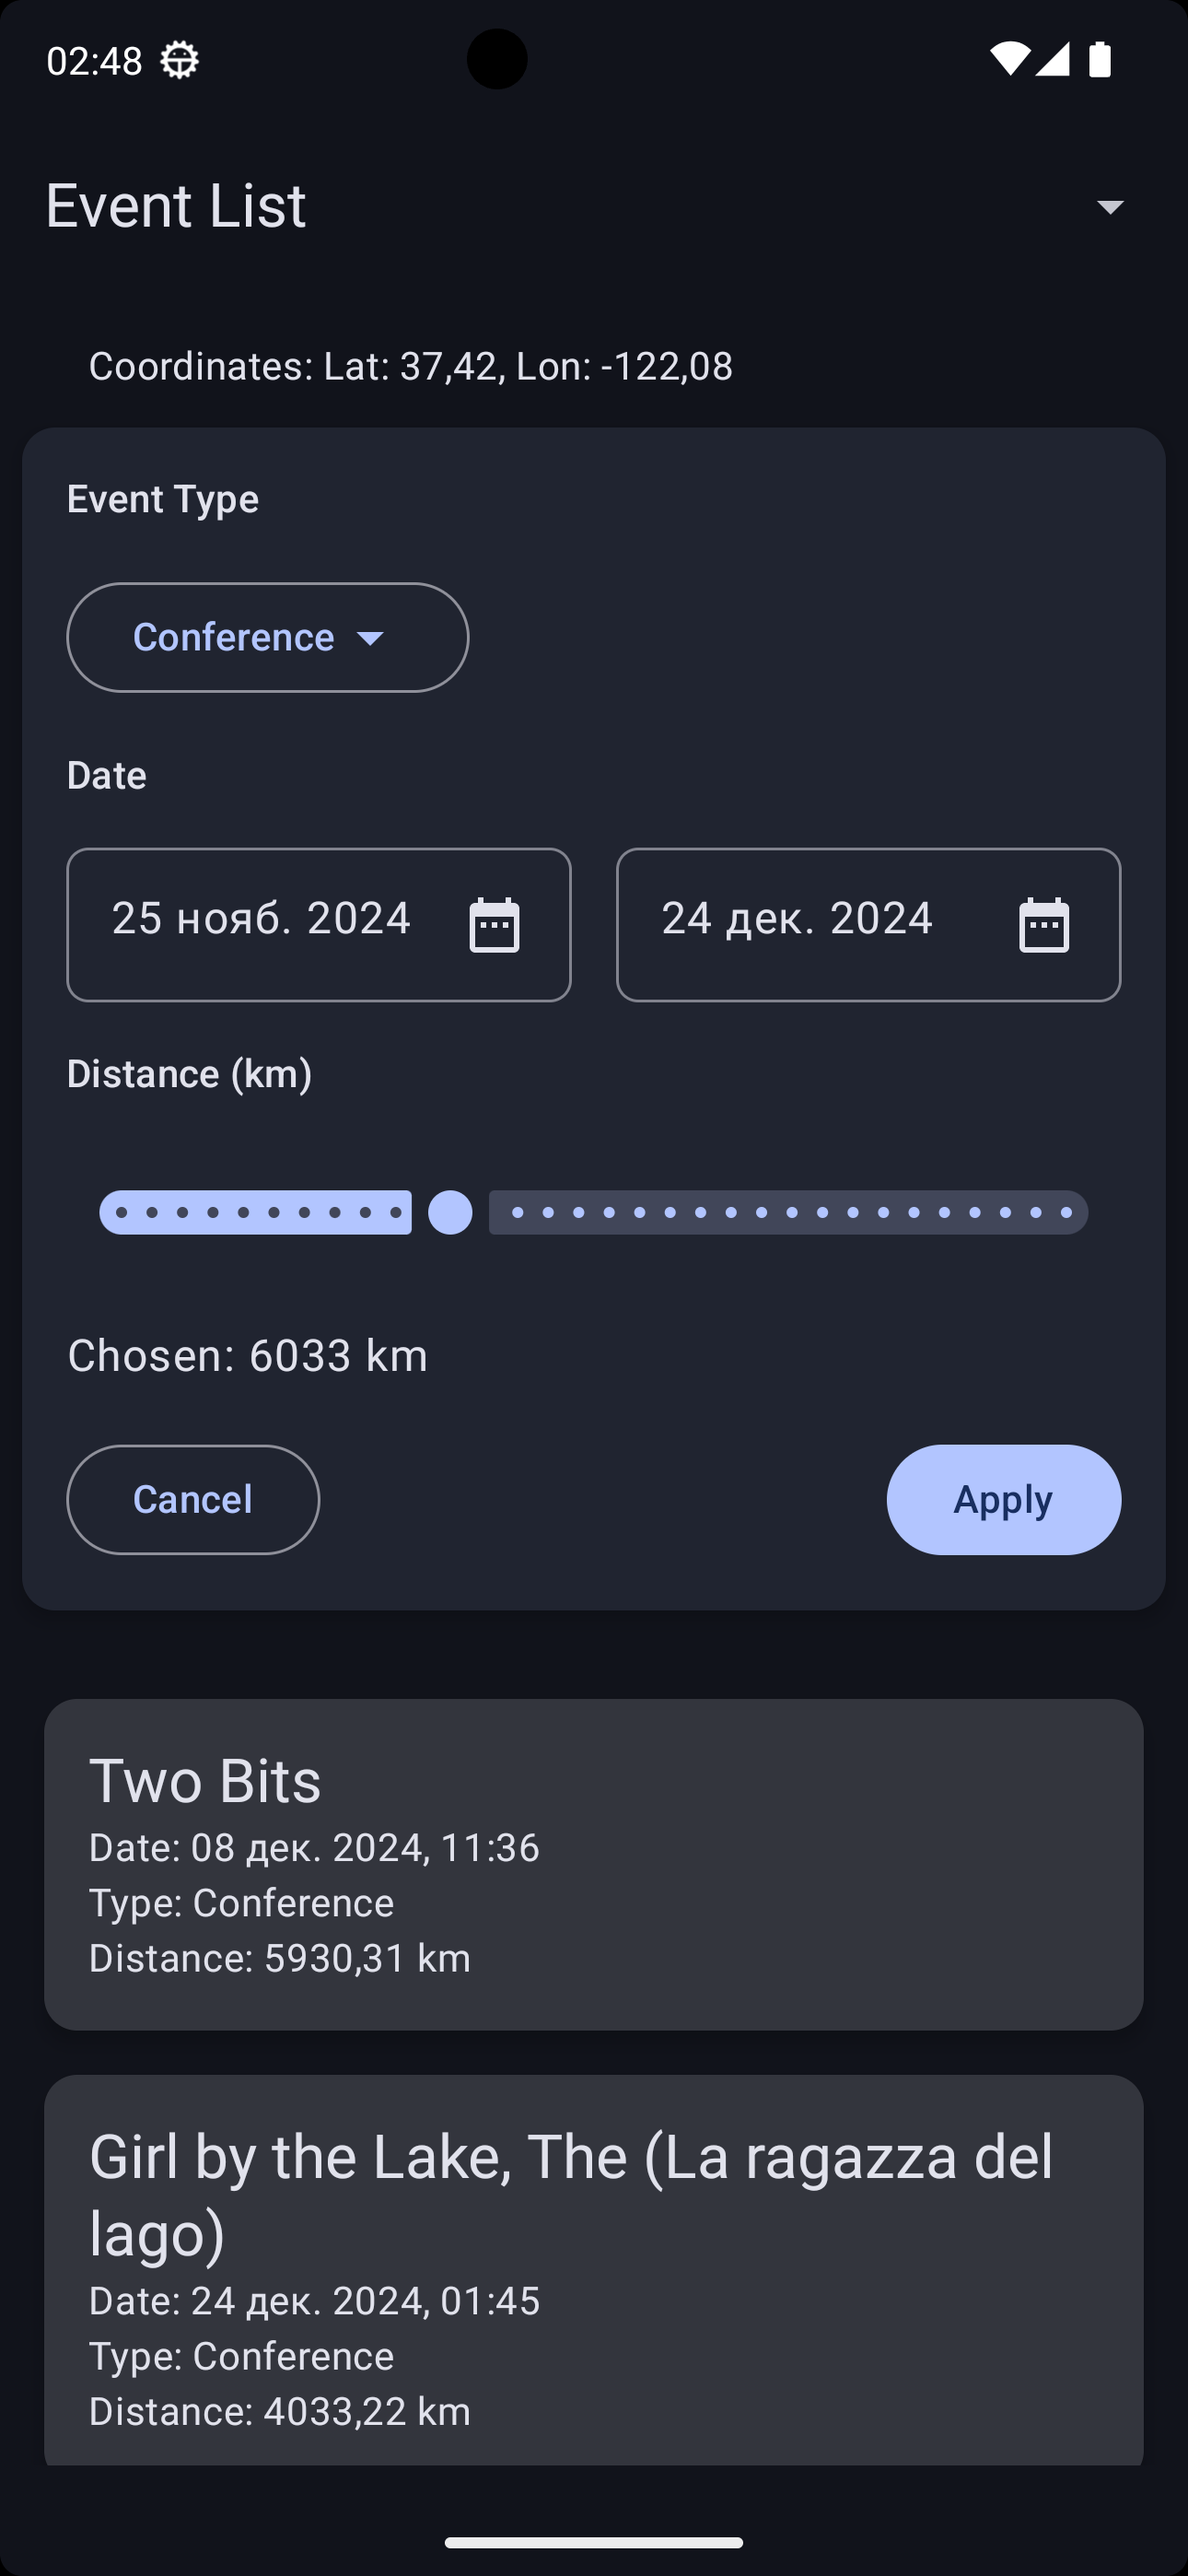
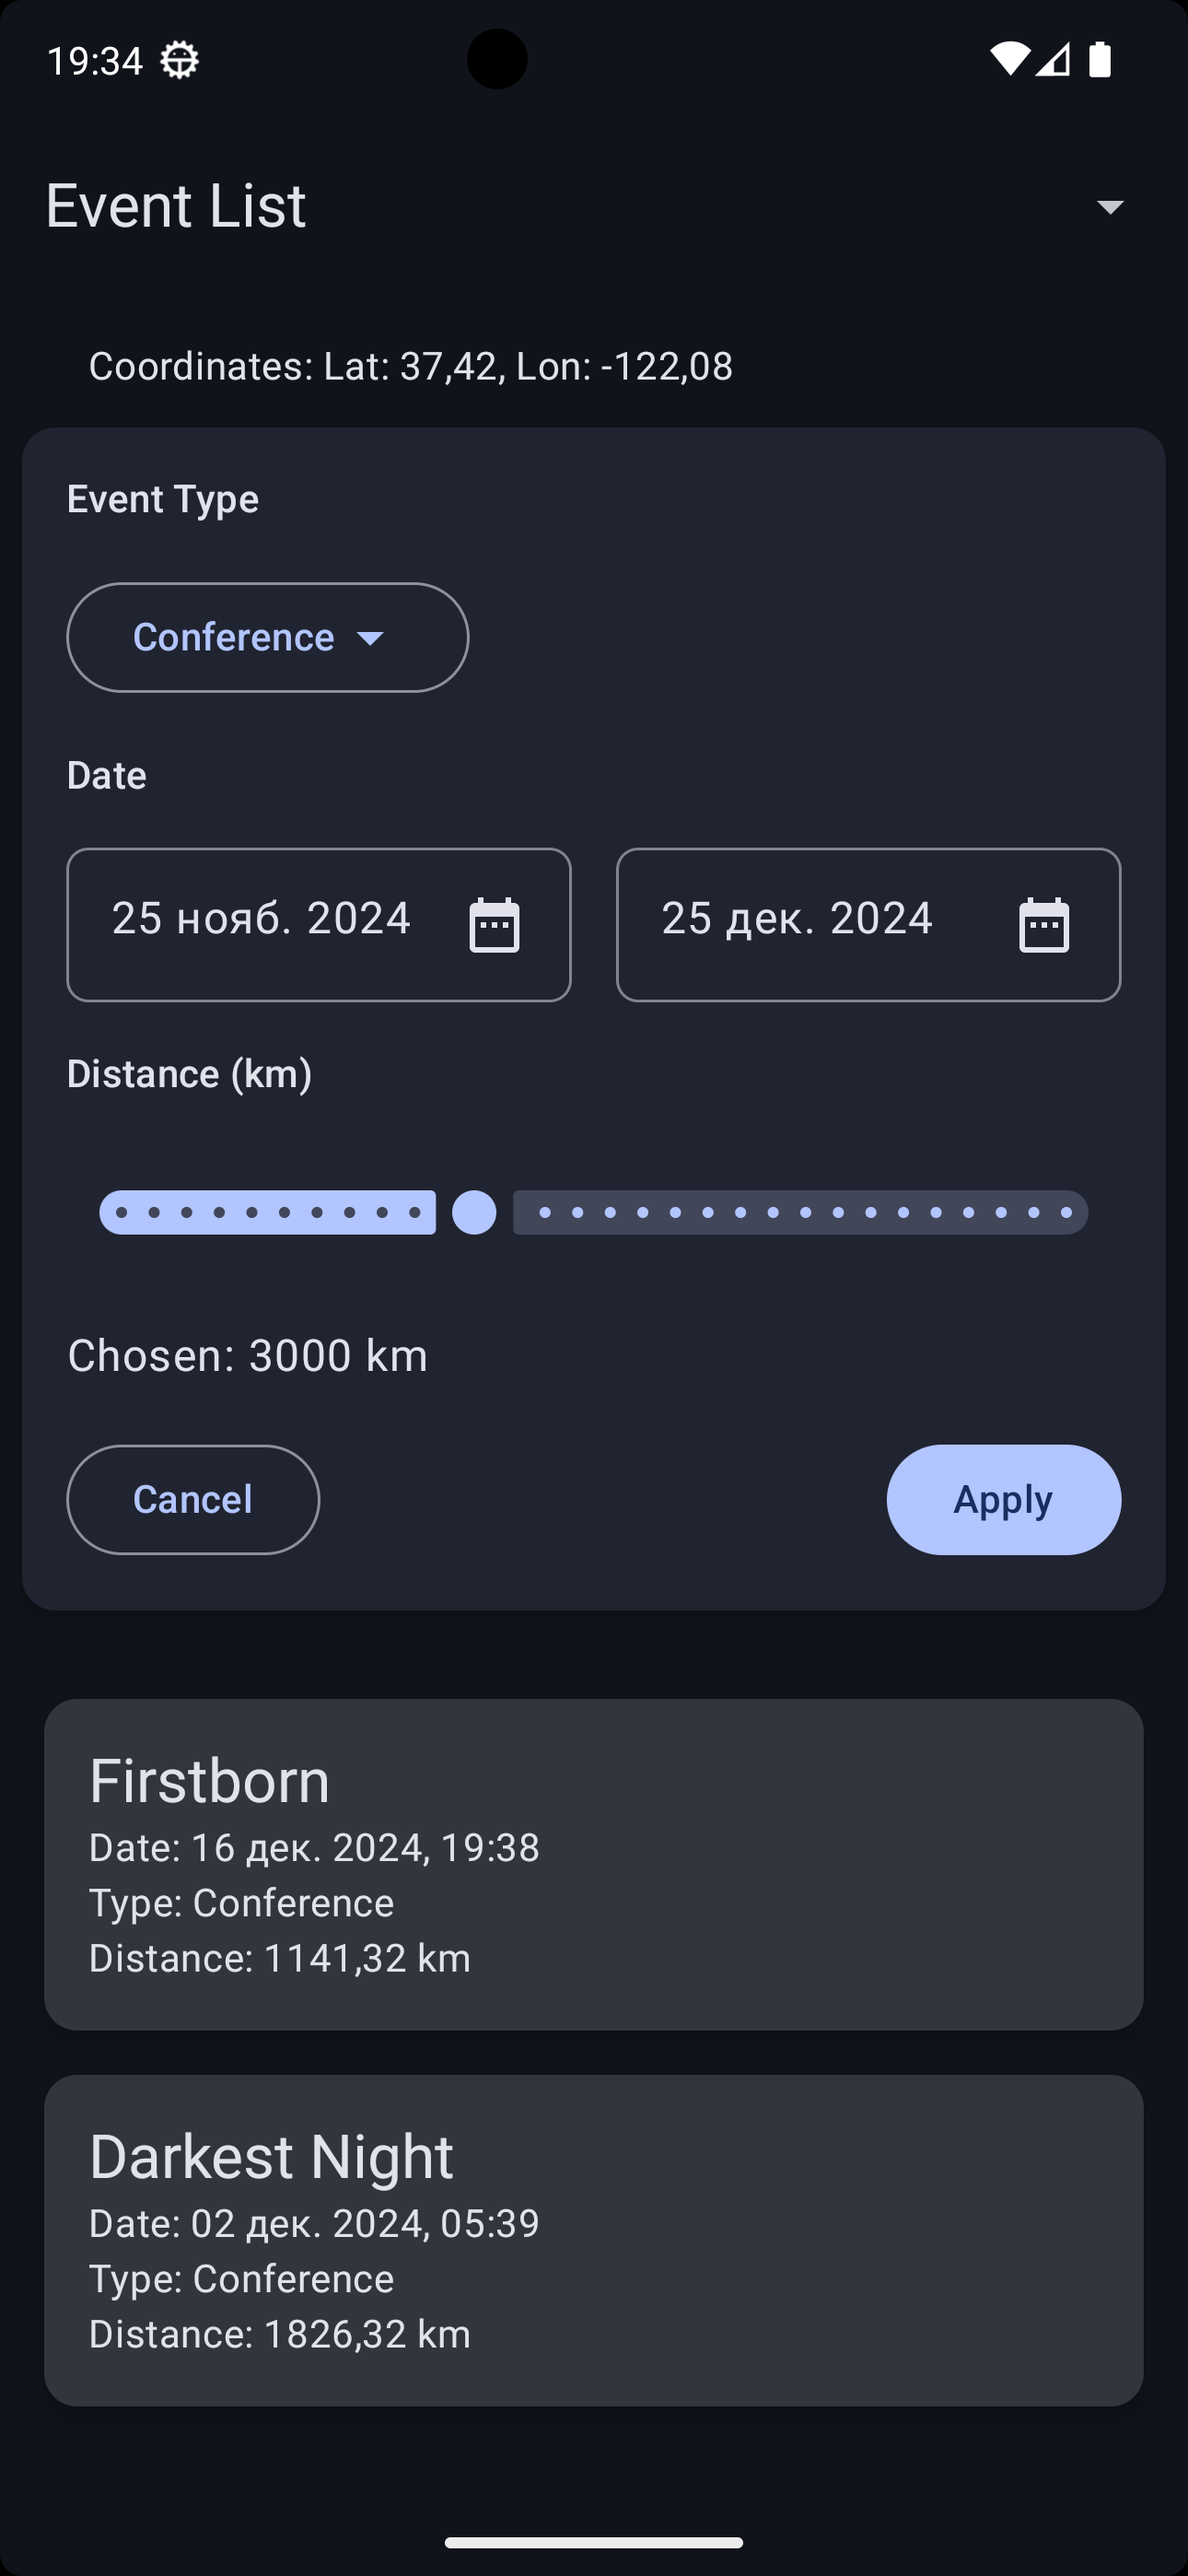
Create TECHNICALSPECIFICATIONS.md

diff --git a/app/src/main/java/com/vazh2100/geoeventapp/presentaion/screen/eventList/widget/FilterPanel.kt b/app/src/main/java/com/vazh2100/geoeventapp/presentaion/screen/eventList/widget/FilterPanel.kt
@@ -78,12 +78,12 @@ fun FilterPanel(
                     "Distance (km)", style = MaterialTheme.typography.titleSmall
                 )
                 Slider(
-                    value = tempFilter.radius?.toFloat() ?: 17001f,
+                    value = tempFilter.radius?.toFloat() ?: 7500f,
                     onValueChange = {
                         tempFilter = tempFilter.copy(radius = it.toInt())
                     },
-                    valueRange = 1f..17001f,
-                    steps = 30,
+                    valueRange = 250f..7500f,
+                    steps = 28,
                     modifier = Modifier.padding(horizontal = 4.dp),
                     thumb = {
                         Box(

diff --git a/TECHNICALSPECIFICATIONS.md b/TECHNICALSPECIFICATIONS.md
@@ -1,0 +1,63 @@
+Тестовое задание:  
+**Приложение для поиска ближайших событий**
+
+**Цель:** Создать Android-приложение, которое позволяет пользователям находить ближайшие публичные
+события, основываясь на их текущем местоположении и предпочтениях. Приложение должно отображать
+список событий и предоставлять возможность фильтрации по дате, типу или расстоянию.
+
+### Требования:
+
+**Общее описание приложения:**
+Создать Android-приложение с двумя экранами и следующими функциями:
+
+- **Экран 1:** Список ближайших событий с отображением названия, даты, типа (концерт, мастер-класс и
+  т. д.) и расстояния от пользователя.
+- **Экран 2:** Детализированный вид события, включающий название, описание, дату, время,
+  местоположение и кнопку "Добавить в календарь".
+
+**Источник данных:**
+
+- Используйте имитированный API событий (можно создать небольшой JSON-файл самостоятельно или
+  использовать публичный JSON-источник) для получения информации о событиях.
+- Добавьте поля: тип события, описание, местоположение (широта/долгота), дата.
+- Включите JSON-файл в проект, чтобы симулировать данные API, и сделайте его фильтруемым на основе
+  предпочтений пользователя.
+
+**Функциональность:**
+
+1. **Фильтрация по местоположению:**  
+   Используйте сервисы геолокации Android для определения текущего местоположения пользователя,
+   после чего отфильтруйте события в заданном радиусе (например, 20 км).
+2. **Предпочтения:**  
+   Позвольте пользователю фильтровать события по типу, дате и радиусу. Сохраняйте эти предпочтения
+   локально и применяйте их при следующих сеансах.
+3. **Сетевое взаимодействие и кэширование:**  
+   Имитируйте загрузку данных API с использованием Retrofit. Реализуйте локальное кэширование
+   данных, чтобы приложение могло отображать события офлайн.
+4. **Добавление в календарь:**  
+   На детализированной странице события добавьте возможность добавить событие в Google Календарь.
+
+**Дизайн интерфейса:**
+
+- Минималистичный и удобный для пользователя дизайн.
+- В списке событий отображать: название, тип, дату и расстояние до события.
+- На странице подробного описания разместить кнопку "Добавить в календарь" на видном месте.
+- Индикация загрузки данных и расчёта расстояния.
+
+**Дополнительные аспекты:**
+
+1. **Кэширование:**  
+   Кэшируйте данные о событиях, чтобы они отображались, если пользователь офлайн или повторно
+   открывает приложение в течение 30 минут.
+2. **Обработка ошибок:**  
+   Реализуйте обработку следующих ситуаций: отказ в доступе к геолокации, отсутствие доступных
+   событий или сбой сети.
+3. **Тестирование:**  
+   Напишите один или несколько модульных тестов для проверки фильтрации данных и работы фильтрации
+   событий на основе местоположения.
+
+### Итоговые материалы:
+
+1. **README:**  
+   Краткие инструкции по настройке с комментариями, объясняющими, как протестировать фильтрацию по
+   местоположению и как симулировать работу приложения с использованием JSON-файла.  

diff --git a/README.md b/README.md
@@ -1,5 +1,8 @@
 # GeoEventApp
 
+Техническое задание:
+[TECHNICALSPECIFICATIONS.md](https://github.com/vazh2100/GeoEventApplication/blob/master/TECHNICALSPECIFICATIONS.md)
+
 ## Скриншоты
 
  <div style="display: flex; justify-content: space-between;"> <img src="screenshots/Screenshot_Good.png" width="270" /> <img src="screenshots/Screenshot_Bad.png" width="270" /> <img src="screenshots/Screenshot_Filter.png" width="270" /> </div>
@@ -13,10 +16,16 @@
 2. Откройте проект в **Android Studio 2024**
 
 ---
+
 ## JSON с тестовыми данными
-Приложение использует файл [events.json](https://github.com/vazh2100/GeoEventApplication/blob/master/app/src/main/assets/events.json) для имитации API-ответа Retrofit c помощью [AssetInterceptor](https://github.com/vazh2100/GeoEventApplication/blob/master/app/src/main/java/com/vazh2100/geoeventapp/data/network/inteceptor/AssetInterceptor.kt).
+
+Приложение использует
+файл [events.json](https://github.com/vazh2100/GeoEventApplication/blob/master/app/src/main/assets/events.json)
+для имитации API-ответа Retrofit c
+помощью [AssetInterceptor](https://github.com/vazh2100/GeoEventApplication/blob/master/app/src/main/java/com/vazh2100/geoeventapp/data/network/inteceptor/AssetInterceptor.kt).
 
 ### Пример данных:
+
 ```json
 [
   {
@@ -33,6 +42,7 @@
 ```
 
 ### Структура JSON:
+
 | Поле          | Тип      | Описание                                     |
 |---------------|----------|----------------------------------------------|
 | `id`          | `Int`    | Уникальный идентификатор события.            |
@@ -45,16 +55,20 @@
 | `date`        | `String` | Дата и время события в формате ISO 8601.     |
 
 ---
+
 ## Тестирование
+
 Для запуска модульных тестов:
+
 1. Откройте файл:
-[app/src/test/java/com/vazh2100/geoeventapp/domain/entity/EventFilterTest.kt](https://github.com/vazh2100/GeoEventApplication/blob/master/app/src/test/java/com/vazh2100/geoeventapp/domain/entity/EventFilterTest.kt)
+   [app/src/test/java/com/vazh2100/geoeventapp/domain/entity/EventFilterTest.kt](https://github.com/vazh2100/GeoEventApplication/blob/master/app/src/test/java/com/vazh2100/geoeventapp/domain/entity/EventFilterTest.kt)
 2. Выберите **Run 'EventFilterTest'**.
 3. Тесты проверяют:
    - Фильтрацию событий по типу.
    - Фильтрацию событий по радиусу.
 
-Чтобы протестировать неудачный сетевой запрос добавьте throw Exception() в [app/src/main/java/com/vazh2100/geoeventapp/data/repository/EventRepository.kt](https://github.com/vazh2100/GeoEventApplication/blob/master/app/src/main/java/com/vazh2100/geoeventapp/data/repository/EventRepository.kt)
+Чтобы протестировать неудачный сетевой запрос добавьте throw Exception()
+в [app/src/main/java/com/vazh2100/geoeventapp/data/repository/EventRepository.kt](https://github.com/vazh2100/GeoEventApplication/blob/master/app/src/main/java/com/vazh2100/geoeventapp/data/repository/EventRepository.kt)
 
 ```kotlin
    private suspend fun refreshEvents() {
